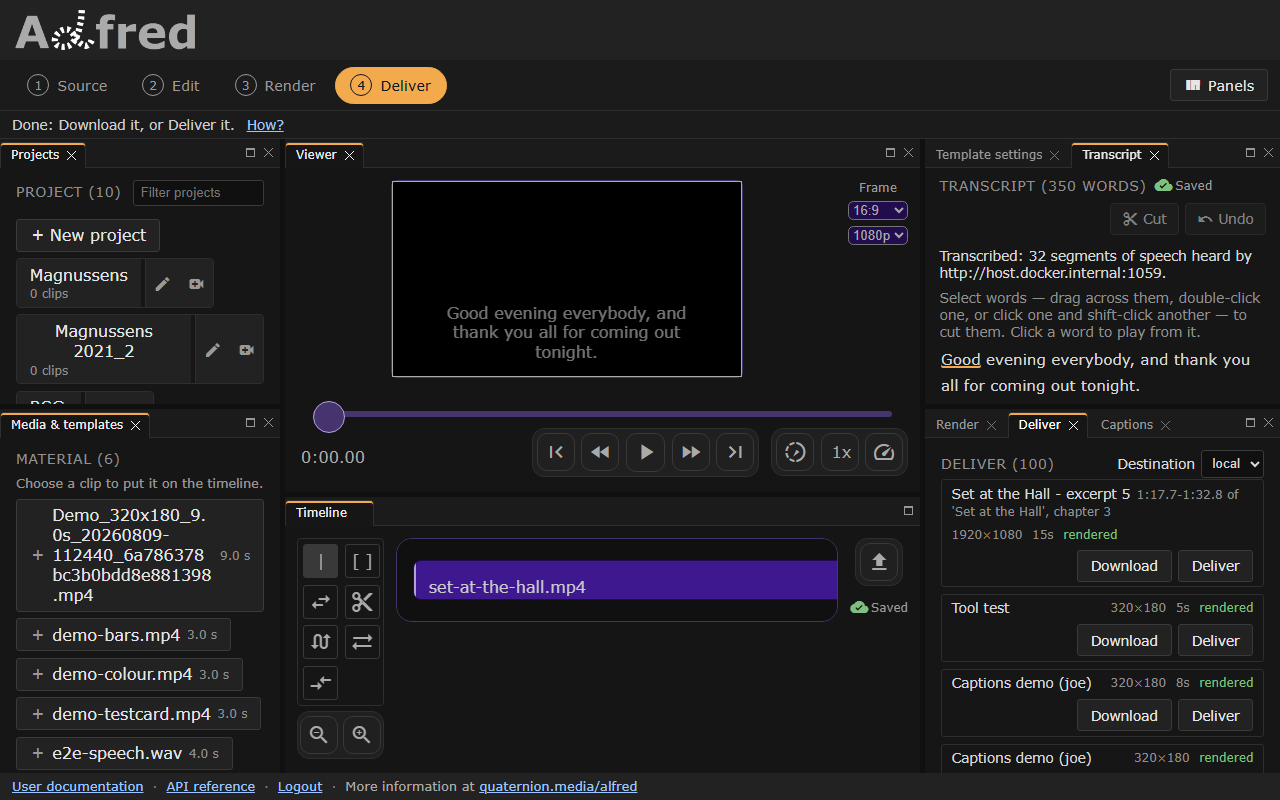
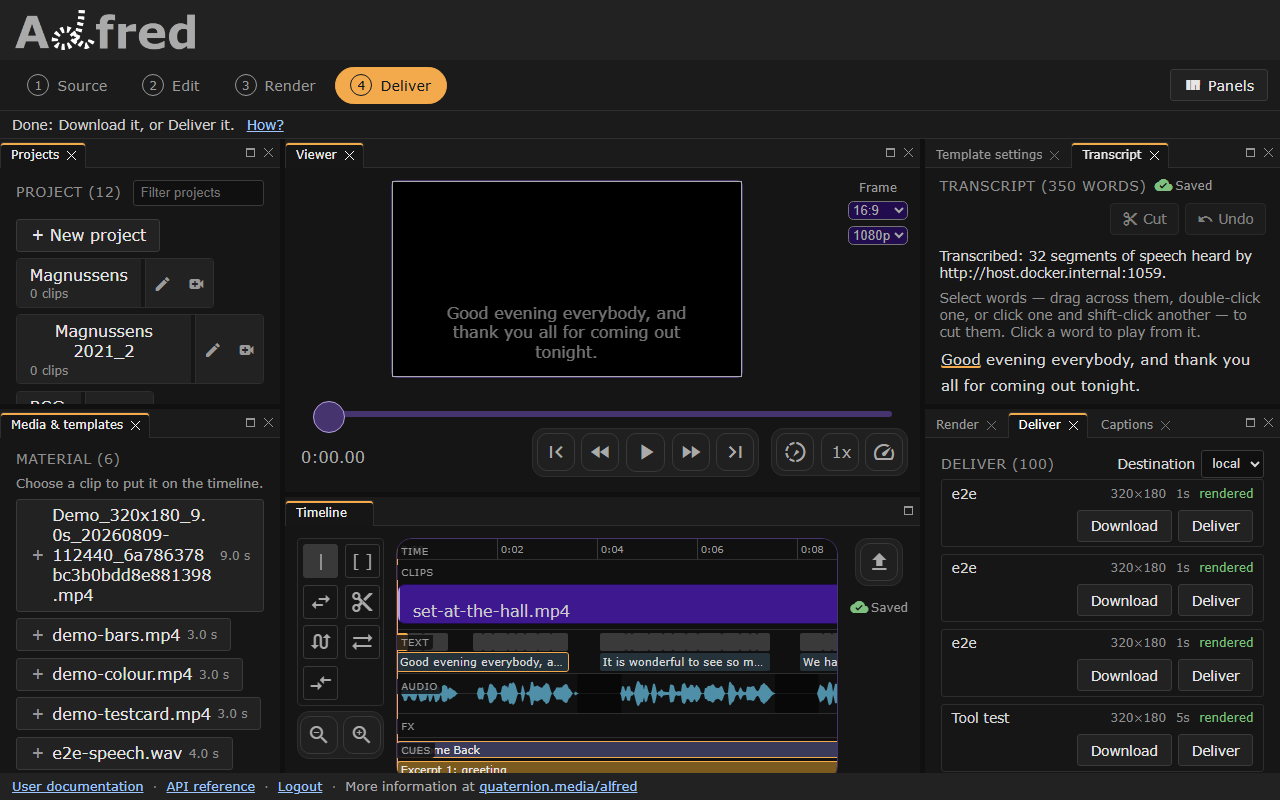
The journey's timeline is drawn as lanes, and the handoffs carry the cues, the branches and what the gates said

diff --git a/ci/journey_pictures.py b/ci/journey_pictures.py
@@ -102,8 +102,9 @@ def browser(out: Path, surfaces: set[str], generate: bool) -> None:
                     taken(page.screenshot(path=out / "prose-analyzed.png"),
                           out / "prose-analyzed.png")
         if "editor" in surfaces:
-            # The first project the account holds, at Edit with its transcript,
-            # then at Deliver with its renders: the journey by what is said.
+            # The first project the account holds, at Edit with its transcript
+            # and its lanes, then at Deliver with its renders: the journey by
+            # what is said.
             page.goto(f"{EDITOR}/")
             page.locator("button.projectchoice").first.wait_for(timeout=30_000)
             page.locator("button.projectchoice").first.click()
@@ -112,6 +113,15 @@ def browser(out: Path, surfaces: set[str], generate: bool) -> None:
             page.wait_for_timeout(1500)                  # the words load
             taken(page.screenshot(path=out / "editor-transcript.png"),
                   out / "editor-transcript.png")
+            # The timeline's lanes, with the cues the excerpt flow wrote: the
+            # panel maximised, so every lane is on the screen.
+            timeline = page.locator(".lm_stack", has=page.locator("#paneltab-timeline"))
+            timeline.locator(".lm_maximise").click()
+            page.locator(".lane.cues .cue").first.wait_for(timeout=30_000)
+            page.wait_for_timeout(1500)                  # the sound's envelope
+            taken(page.screenshot(path=out / "editor-lanes.png"),
+                  out / "editor-lanes.png")
+            timeline.locator(".lm_maximise").click()
             page.locator("button.stage", has_text="Deliver").click()
             page.locator("#panel-deliver").wait_for()
             page.wait_for_timeout(1500)                  # the renders list

diff --git a/handbook/handoffs/the-video-journey.md b/handbook/handoffs/the-video-journey.md
@@ -45,10 +45,11 @@ cannot reach its `main` until they merge (`qm-queue.md` §4).
 
 Branch `feat/alfred-excerpts` of `qmcp`, in the worktree
 `qmcp.worktrees/alfred-excerpts` beside the clone, cut from `main` at
-`8aece3e`. Five commits, `6e187a4` to `701e7c6`, signed and not pushed: the flow, the
+`8aece3e`. Six commits, `6e187a4` to `763414c`, signed and not pushed: the flow, the
 editor review's fixes (§4), a line length, the flow's output named an
-excerpt, and the onboarding naming the flow
-([`docs-review-editing-by-what-is-said.md`](docs-review-editing-by-what-is-said.md)).
+excerpt, the onboarding naming the flow
+([`docs-review-editing-by-what-is-said.md`](docs-review-editing-by-what-is-said.md)),
+and the flow marking the project's timeline with its cues (below).
 
 | Piece | Where | What it is |
 |---|---|---|
@@ -58,6 +59,26 @@ excerpt, and the onboarding naming the flow
 | the checks | `tests/test_alfred_excerpts.py`, `tests/test_alfred_tools.py`, `tests/alfred_stub.py` (`add_project` takes an `edl`), `tests/test_examples_smoke.py`, `tests/test_qmcp_mcp.py` | the proposal, the cut timeline and the labeller alone; the tools against the stand-in; the flow file's steps end to end through a qmcp server and its queue, each way a run can end, each guard naming its mutation |
 | the page | `walkthrough/12-a-long-recording-is-offered-as-excerpts.md` | runs under the ordinary test command |
 | the docs | `docs/integrations/alfred.md` (the flow, the tools), `docs/tools.md`, `docs/setup/flows.md`, `docs/testing.md`, `docs/ROADMAP.md` | |
+| the cues | `qmcp/tools/alfred.py` (`alfred_cues_set`), `qmcp/cookbook/alfred_excerpts.py` (`cues_of`, `mark`, the states), the flow's `_mark` | from `propose` on, the proposal is on the project's timeline as cues of the source `alfred-excerpts`: a cue per chapter and per span, each span's state following the run, so alfred's editor shows the run as it goes; an alfred without the route is printed and the run goes on |
+
+**Branch `feat/synced-timeline` of `alfred`**, in the clone itself, cut from
+`docs/excerpts-in-the-family` at `86a6708b` so that it lands above alfred's
+open stack and that branch, at `499abe8a`, three commits signed and not
+pushed. In the
+clone and not a worktree because the family stack serves the clone's
+checkout, and the lanes were built against it live. The timeline is lanes on
+one time axis, at one scale, in one box that scrolls sideways; alfred's
+`docs/lanes.md` is the reference.
+
+| Piece | Where | What it is |
+|---|---|---|
+| the lanes | `website/src/lanes/Lanes.js`, `lanes.scss` | the ruler, the clips (`#timeline`, unchanged, the tools' subject), the words and the captions, the sound's loudness, each clip's fades and opacity, and the cues, with one playhead down all of them; a press on a lane seeks, a word, a caption or a cue seeks to its start; the lanes draw what is in view, and the Text and Audio lanes redraw only when what they show changes |
+| the arithmetic | `website/src/lanes/arith.js` | the ruler's ticks for a zoom, the view, the clips laid end to end, the envelope sampled over a clip's window no finer than a pixel, the fades as `chosenFade` reads them (moved to `ClipWindow.js` so the render request and the lane share one rule), the cues' rows; imports nothing of the page |
+| the sound | `website/src/lanes/sound.js` | the engine's `peaks` and `silences` per library file from `GET /media/{name}/audio`, asked once per file while the page is open |
+| the cues | `website/src/cues/store.js`, `alfred/core/models/cues.py`, `alfred/core/routes/cues.py` | a project's cues, `GET` and `PUT /project/{id}/cues`, a writer's `source` replacing its own and keeping another's; read again every few seconds while any cue waits; the whole-project update keeps them, and `too_many_cues` is the refusal |
+| the loading | `website/src/OttoTimeline.js` | the captions, the words and the cues load once the session is confirmed, not only when the project opens: under the development bypass the session is confirmed after, and the words never loaded unless the Transcript panel was showing |
+| the checks | `website/e2e/lanes-arith.spec.js` (Node), `website/e2e/lanes.spec.js` (the running stack, the lanes' data served), `screens.spec.js` (the docs' picture), `tests/unit/test_cues_routes.py`, `tests/integration/test_cues_api.py`, the route inventory, the ownership list and the refusal codes | |
+| the docs | `docs/lanes.md` and its place in the nav, `docs/index.md`, `docs/guide.md`, `docs/api/index.md`, `docs/api/errors.md`, `docs/cookbook.md` (regenerated), `website/e2e/README.md`, `CHANGELOG.md` | |
 
 What a span is comes from the transcript alone: when the words were said and
 whether a caption ends a sentence. Nothing in the flow hears the sound, so a
@@ -149,8 +170,51 @@ where it waits for a person. Through the tools alone, excerpt 5 was rendered
 by alfred's worker at 1920 by 1080 with its 7 captions burned in and downloaded
 through its signed link, 15.1 s of video and sound.
 
+**The lanes and the cues**, at alfred `499abe8a` and qmcp `763414c`.
+alfred's Python suite in Docker, `./al pt`: formatting and lint green, and
+2059 tests passed, 9 skipped, 8 expected failures, 1 failed, the docs rule
+that a page named for a timeline is a project's history on qm's site; the
+page was renamed in the commit after, and that rule ran green on the host with
+the other docs rules, 34 passed. The host's environment is on pydantic 1 and
+cannot run the route tests, which is why the suite runs in Docker. The run at
+the commit before had the cookbook stale by the two new specs, regenerated
+with `node website/e2e/cookbook.js`, and four files unformatted, formatted
+with the suite's Black. In Node, the lanes' arithmetic spec: 14 passed, with
+the cut and follow specs 46. The browser gate, `npx playwright test` for the
+`chromium` and `phone` projects against the family stack: 453 passed, 45
+failed, of which 42 are the stack's, which runs with authentication skipped
+and a real joe where the suite expects its stub, and 3 the change's: an empty
+clip strip with no height, so a page with no project open called the timeline
+hidden; the lane labels centred; and a word's text drawn at the usual zoom
+into a box a few pixels wide. All three fixed, the editor's specs rerun: 216
+passed, 4 failed, two the skipped authentication and two drags across the
+Transcript panel's words. The same two drag tests with the website's sources
+set aside on the same stack: the desktop one fails there too, the phone one
+passes; the phone one was the lanes' height squeezing the panel into a
+scroller, bounded since, and the final rerun of the lanes, transcript, phone
+stack, appearance and flow specs: 90 passed, 1 failed, the desktop drag test
+the baseline fails. The docs' picture was taken by the screens spec on the
+running stack, and the journey's three by the shot script over alfred's own
+Playwright, the pinned one having no Chromium here.
+
+qmcp at `763414c`: `uv run pytest tests walkthrough -q` in the worktree, 1810
+passed, 12 skipped, 3 failed, the folder-name continuity tests above; ruff
+clean on the files the commit touches; `uv run qmcp preflight --event
+pull_request --base-ref main`: 13 of 15 steps pass, the two reds the
+signature step's `E` and the suite's three, as before.
+
+**The run marks the timeline.** The excerpt flow run again on the live
+project after the server was restarted with the tool: its proposal is on the
+project as cues of the source `alfred-excerpts`, read back from
+`GET /project/{id}/cues` as 12, five chapters titled by the local model and
+seven excerpts, the first `waiting` on the queue and the rest `proposed`, and
+drawn in the editor's Cues lane, which `docs/journeys/pictures/editor-lanes.png`
+shows. The run before it ended at its four-hour review timeout with its
+request still on the queue, where it stays, unanswered, beside the new one.
+
 **Not run.** An excerpt approved from its link and delivered to `local`,
-which waits on the queue's answers.
+which waits on the queue's answers; alfred's site built with mkdocs, whose
+nav and links the suite's docs rules check in its place.
 
 ## 3. What remains, and what done looks like
 
@@ -188,14 +252,37 @@ which waits on the queue's answers.
   several real recordings with the proposals kept, before any default moves,
   as `qmcp`'s `docs/voice-loop-next-phases.md` Phase 6 asks of the voice
   loop. The empty title for a one-sentence chapter belongs to the same pass.
+- **(g) The panels, split.** Asked for while the lanes were built: the
+  *Media & templates* panel split into a Media panel and a Templates panel,
+  with Media gaining ways to act on a file and to upload one from the person's
+  own machine; and the timeline tools split from the timeline into a panel of
+  their own, so the lanes take the Timeline panel's width. Each is a panel in
+  `website/src/layout/registry.js`, a place in the default layout and in the
+  phone flow, a row in the Panels menu, and the workspace, appearance and
+  phone specs that name every panel. The upload is a route alfred does not
+  have (`docs/captions.md` says media is put in `videos/`), so it is a
+  decision on where uploaded media lives before it is code. Done is one pull
+  request per split above `feat/synced-timeline`, with the upload's record
+  first.
+- **(h) The lanes, further.** A cue stays at its timeline seconds when an
+  edit moves the picture, so the flow's cues describe the timeline as it was
+  read; done is cues followed through `followClips` as the captions are,
+  with the undo carrying them, and the flow re-reading the timeline when an
+  excerpt is queued. The fades are read in the FX lane and not dragged; a
+  dragged fade meets `chosenFade`, which reads exactly one second as none.
+  The editor writes no cue of its own; a mark dropped at the playhead wants
+  the following first. The Audio lane draws each file, not the mix. A lane's
+  label covers the start of whatever sits at second 0 of that lane, a chapter's
+  first letters for one.
 - **(f) Landing, once keep-local is lifted.** Push `feat/alfred-excerpts`,
   open its pull request against `qmcp` `main` with the person who asked as
   assignee, run `uv run qmcp preflight --event pull_request --base-ref main`
   on the pushed branch, and merge it green; the recipe's description reaches
   `qmcp_mcp.py`'s list with it. This page's own pull request opens against
-  `qm` `main` from `evolve/the-video-journey`. alfred's `docs/guide.md`, on
-  its stack, counts qmcp's alfred tools as nine; with `alfred_project` they
-  are ten, and its table gets the row when that page is next touched.
+  `qm` `main` from `evolve/the-video-journey`. alfred's `feat/synced-timeline`
+  opens against `docs/excerpts-in-the-family`, a draft until that lands, and
+  retargets as the stack merges; alfred's suite runs in Docker, `./al pt`,
+  and the browser gate from `website/` against the running stack.
 
 ## 4. The editor, as the excerpt flow meets it
 
@@ -213,7 +300,7 @@ the rows that are the editor's wait on alfred's stack, under §3 (c).
 | 3 | opens Deliver to find the excerpts | renders newest first, the account's across every project, twelve rows shown; a run's excerpts arrive in reverse order, and a run of more than twelve pushes a project's other renders off the list | the flow's: excerpts are queued in span order, so the list reads last excerpt first. The editor's: no filter by project and no page past twelve (`VISIBLE_RENDERS`, `website/src/Stages.js`) |
 | 4 | reads an excerpt's row in Deliver | the name `<project> - excerpt <n>` and, small and grey beside it, a description naming the project by its twenty-four-digit id | fixed: the description names the project and the chapter, and the label when there is one |
 | 5 | wants to watch a rendered excerpt before approving it | the approval carries a signed download link; the editor's viewer shows the timeline and never a render, and Deliver offers Download alone | the editor's: a render is watched outside the editor, by downloading it, for every flow alike |
-| 6 | wants to refine a span the flow proposed, in the editor | the Transcript shows paragraphs, one per stretch the engine heard, and selects words; nothing shows a chapter, a span or a time range, and the request names times the panel cannot take | the editor's: §3 (c), as a selection rendered rather than a view drawn |
+| 6 | wants to refine a span the flow proposed, in the editor | the Transcript shows paragraphs, one per stretch the engine heard, and selects words; nothing shows a chapter, a span or a time range, and the request names times the panel cannot take | the timeline's Cues lane draws each chapter and each span where it falls, coloured by where it stands, and a press on one puts the playhead at its start; what remains is §3 (c), a selection rendered as an excerpt |
 | 7 | reads the word *clip* | the project card says `4 clips`, meaning items on the timeline, and otto's clip is the timeline's; a render named `clip 2` would mean an excerpt | fixed: the flow's output is an excerpt, in its names, its requests and its last line, and *clip* is the timeline's word in every repository |
 | 8 | approves a span with no render worker running | Deliver says why a queued render is not moving (`RendererNotice`); the flow ends that excerpt `no renderer` after `--queued-timeout` | holds: both say the same thing |
 | 9 | uses a phone | one stage at a time; Deliver's rows carry name, description, size, length and state in a narrow column | the editor's: a long description wraps; nothing hides it. Not seen on a screen |
@@ -226,8 +313,12 @@ named above.
 ## 5. Standing constraints
 
 - **Keep everything local**, until the person lifts it: this branch, `qmcp`
-  `feat/alfred-excerpts`, `alfred` `docs/excerpts-in-the-family` and `joe`
-  `docs/what-the-words-are-for`.
+  `feat/alfred-excerpts`, `alfred` `docs/excerpts-in-the-family` and
+  `feat/synced-timeline`, and `joe` `docs/what-the-words-are-for`.
+- **alfred's clone is checked out on `feat/synced-timeline`**, which the
+  family stack serves; `docs/excerpts-in-the-family` has its worktree beside
+  the clone. A session that wants the clone on the stack's top checks it out
+  with the stack down, or serves another checkout on another port.
 - **The family's joe needs `JOE_FFMPEG`** in the environment `./al family up`
   runs in, where ffmpeg is not on the `PATH`.
 - **Never bind a default port.** joe ran on `--port 0` and was asked its

diff --git a/perspectives/2026-11-19-the-video-journey.md b/perspectives/2026-11-19-the-video-journey.md
@@ -105,6 +105,58 @@ The local model answered every prompt within its timeout, in sixty-eight
 seconds for twelve, with no stall. One run says it can; it does not say it
 will.
 
+## The timeline became lanes, and what that decided
+
+The second ask of the session was the editor's timeline: synced text, audio,
+clips, effects and queues. The decisions, in the order they were forced:
+
+- **The clip strip stays the element it was.** Every tool and every browser
+  test has `#timeline .clip` as its subject; the lanes wrap it rather than
+  replace it, and a gesture on a clip is still the clip's.
+- **One scale, one scroll box, one edge.** Every lane puts a second at
+  `seconds x scale` pixels from the same left edge, and that is the whole of
+  the synchronisation. A padding would have broken it, so there is none; the
+  labels inherited centred text and sat in the middle of each lane, which the
+  docs' own picture showed before a reader would have.
+- **"Queues" was read as cues.** A lane of marked moments and stretches with
+  a state, fed by the harness's queue through a route of alfred's own, so
+  that alfred reads nothing from qmcp and the seam keeps its direction. The
+  flow writes its proposal as cues of its own source, replacing its own and
+  leaving another writer's, which is what lets the editor show a run as it
+  goes without a second channel.
+- **The sound is what already exists.** alfred served the engine's analysis
+  of a library file before this slice; the Audio lane asks it once per file
+  and draws each clip's window of it. The mix is otto's at render time, and
+  the lane says so rather than drawing a guess.
+- **Fades are read, not dragged.** The render request reads a fade of
+  exactly one second as none, because older projects carry one nobody chose;
+  a dragged fade would meet that rule at one second and vanish. Showing what
+  renders was the honest half; the drag waits on the rule.
+- **A cue does not follow an edit.** The captions and words follow the
+  picture through one function; the cues could ride it, and the undo would
+  have to carry them. That is a slice, not a corner, and the handoff names it
+  rather than leaving it half-done.
+- **Built in the clone, against the live stack.** The habit is a worktree per
+  slice; the family stack serves the clone's checkout, and a lane is judged
+  by looking at it, so the branch was cut in the clone and the handoff says
+  where the clone now sits.
+
+**What the gate said.** The browser gate against the family stack reported
+forty-five reds. Most were the stack's: it runs with authentication skipped,
+and every test that expects a refusal fails there, as do the ones that
+expect the stub engine's words from a real joe. Three were the change's, each
+found by a picture or a test and not by reading: an empty strip with no
+height, so a page with no project open called the timeline hidden; the
+centred labels; and a word's text drawn at the usual zoom into a box a few
+pixels wide, which read as noise. A reader of the diff would have passed all
+three.
+
+**What was asked next.** While the lanes were built, two more asks arrived:
+the Media & templates panel split, with Media gaining ways to act on a file
+and to upload one, and the timeline tools split from the timeline. Both are
+panel splits in the same registry; neither was started here, so that this
+slice closed as one thing.
+
 ## The journey is longer than the slice
 
 Nothing here has been rendered by alfred's worker: Docker Desktop was down,

diff --git a/handbook/handoffs/docs-review-editing-by-what-is-said.md b/handbook/handoffs/docs-review-editing-by-what-is-said.md
@@ -48,12 +48,13 @@ branches, *proposed* is a sentence in §3 for its owner.
 | `alfred` `docs/guide.md` | the whole family walked for one short video; *Let an assistant drive it* lists nine tools and no flow | fixed: the tenth tool and the excerpt flow, on alfred's local branch (§2) |
 | `alfred` `docs/journeys.md` | *With an assistant*: list projects, transcribe and correct captions, render and deliver | fixed: one clause, on alfred's local branch (§2) |
 | `alfred` `docs/editing-by-text.md` | the rules of a cut, the words following the picture, undo and saving | holds; its complement, a selection kept rather than cut, is `the-video-journey.md` §3 (c) |
+| `alfred` `docs/lanes.md` | the timeline as lanes: what each shows and where it comes from, the cues through the API, and what the lanes do not do | written, on alfred's `feat/synced-timeline` (§2), with its place in the nav and a sentence each in `docs/index.md` and `docs/guide.md` |
 | `alfred` `docs/captions.md` | transcribing, editing by text, and the audio engine asked two things: a transcript, and an analysis of a library file | holds; `the-video-journey.md` §3 (b) names that route as the way the sound reaches the proposal |
 | `joe` `README.md` | the audio engine of a video editor: what alfred uploads and what joe answers | fixed: what the words are for, on joe's local branch (§2) |
 | `joe` `docs/paths/server.md` §2 | caption and analyse a video for an editor: words for captions, and beats, loudness and silences for cutting | fixed: one clause, on joe's local branch (§2) |
 | `joe` `docs/media.md` | the audio engine of a video pipeline, every route | holds |
 | `vox` `README.md` | the seam, naming no product by design; alfred's captions page links its media client | holds |
-| `otto` `docs/timeline.md` | the in-point and the out-point, which is how an excerpt is cut | holds; otto's index names no editor, as an engine's should not |
+| `otto` `docs/lanes.md` | the in-point and the out-point, which is how an excerpt is cut | holds; otto's index names no editor, as an engine's should not |
 
 ## 2. What was fixed, and where
 
@@ -75,6 +76,13 @@ alfred's open stack (`docs/changes-by-family` at `9bf5209`) in the worktree
 family table's qmcp row in `docs/index.md`, the tenth tool and the excerpt
 flow in `docs/guide.md`, and the *With an assistant* journey. It lands as one
 pull request above the stack, a draft until the stack merges.
+
+On `alfred` `feat/synced-timeline`, in the clone, cut from
+`docs/excerpts-in-the-family`: `docs/lanes.md`, the reference for the
+lanes the branch adds, its place in the nav, the Edit stage's line in
+`docs/index.md`, a sentence in the guide's step 4, the cues route in
+`docs/api/index.md` and its refusal in `docs/api/errors.md`, and the
+changelog; [`the-video-journey.md`](the-video-journey.md) §1 has the branch.
 
 On `joe` `docs/what-the-words-are-for`, at `a7c214c`, cut from joe's `main` in
 the worktree `joe.worktrees/docs-what-the-words-are-for`: the README's

diff --git a/handbook/handoffs/qm-queue.md b/handbook/handoffs/qm-queue.md
@@ -174,6 +174,15 @@ pick up alone; that page is then listed in the index and named here.
     qmcp's already. A joe route and an alfred panel were the alternatives;
     the panel would stack above alfred's open pull requests.
     [`the-video-journey.md`](the-video-journey.md) is the handoff. (2026-11-19)
+24. **The editor shows the harness's proposal through a route of alfred's
+    own, and reads nothing from qmcp.** A project carries cues, moments and
+    stretches of its timeline with a label and a state, which the editor
+    draws in a lane under the clips and the excerpt flow writes as its
+    proposal and where each span stands; a writer replaces its own cues and
+    leaves another's. The seam keeps its direction: qmcp drives alfred, and
+    alfred holds what it is told. `alfred`'s `docs/lanes.md` is the
+    reference; [`the-video-journey.md`](the-video-journey.md) §1 names the
+    branch. (2026-11-19)
 
 ## 2. `qm`'s open pull requests, and what clears each
 
@@ -610,10 +619,12 @@ re-checked and is re-derived before anyone acts on it.
 - **The excerpt flow against a live alfred.** `qmcp`'s `feat/alfred-excerpts`
   carries the `alfred-excerpts` recipe, its tools, tests and walkthrough, run
   against a live alfred to its first question on the queue, with one excerpt
-  rendered by alfred's worker. Done is a person's answers on that queue, then
-  [`the-video-journey.md`](the-video-journey.md) §3 (b) to (e) each as a
-  record or a pull request of its own, and (f) once *keep everything local* is
-  lifted. (2026-11-19)
+  rendered by alfred's worker and the proposal drawn on the editor's timeline
+  as cues, in the lanes `alfred`'s `feat/synced-timeline` adds. Done is a
+  person's answers on that queue, then
+  [`the-video-journey.md`](the-video-journey.md) §3 (b) to (e), (g) and (h)
+  each as a record or a pull request of its own, and (f) once *keep
+  everything local* is lifted. (2026-11-19)
 
 ## 5. Not verified
 
@@ -651,9 +662,10 @@ re-checked and is re-derived before anyone acts on it.
 ## 6. Standing constraints
 
 - *Keep everything local* is **not** in force for this page's work, and is
-  **in force** for the video journey's four branches, `qmcp`
+  **in force** for the video journey's five branches, `qmcp`
   `feat/alfred-excerpts`, `qm` `evolve/the-video-journey`, `alfred`
-  `docs/excerpts-in-the-family` and `joe` `docs/what-the-words-are-for`, until
+  `docs/excerpts-in-the-family` and `feat/synced-timeline`, and `joe`
+  `docs/what-the-words-are-for`, until
   the person lifts it; [`the-video-journey.md`](the-video-journey.md) §3 (f)
   lands them. (2026-11-19)
 - Nothing of this page's work is unpushed.

diff --git a/docs/journeys/cut-a-recording-by-what-is-said.md b/docs/journeys/cut-a-recording-by-what-is-said.md
@@ -55,9 +55,11 @@ On **Edit**, open the **Transcript** tab and press **Transcribe timeline**. alfr
 
 Select words in the transcript and press **Delete**: the stretch they were said in is cut from the timeline, picture and sound alike, and the captions move with it. This is the editor's own way to edit by what is said, and alfred's docs have its rules. The **Captions** tab corrects a misheard word and chooses how captions are drawn.
 
+The timeline itself shows the same seconds in lanes under the clips: the words and the captions where they are said and shown, the loudness of the sound as the audio engine measured it, each clip's fades, and the cues. A press on any lane puts the playhead there, and a word takes it to its start, so a cut can be placed by what is heard as well as by what is read.
+
 ## 5. Offer the stretches that stand alone
 
-The harness reads the transcript the editor holds, cuts it into chapters at the long pauses and into spans at pauses and sentence ends, and asks you about each span. In qmcp's checkout, with Docker running:
+The harness reads the transcript the editor holds, cuts it into chapters at the long pauses and into spans at pauses and sentence ends, draws them on the editor's timeline, and asks you about each span. In qmcp's checkout, with Docker running:
 
 ```sh
 QMCP_ALFRED_URL=http://127.0.0.1:1732 uv run qmcp cookbook serve
@@ -71,6 +73,16 @@ uv run qmcp human respond <request id> approve
 ```
 
 or by voice through joe's Voice window, which speaks a shorter form of each. Approve the spans worth keeping and reject the rest. With `--label-with local` and `--categories`, the local model titles each chapter and sorts each span into one of your categories first.
+
+<figure class="qm-shot" markdown>
+
+![The editor's timeline with the chapters and excerpts the harness proposed drawn in the Cues lane under the clips, the words and the sound, one excerpt waiting on the queue](pictures/editor-lanes.png)
+
+<figcaption><strong>The proposal on the timeline.</strong> The Cues lane draws each chapter and each excerpt where it falls, coloured by where it stands on the queue; the lanes above it are the words and the sound at the same seconds.</figcaption>
+
+</figure>
+
+The editor's **Cues** lane shows the proposal as the flow goes: each chapter, titled when the model titled it, and each excerpt coloured by where it stands, waiting, approved, rejected, rendered or delivered. It reads the cues again every few seconds while any waits, so an answer given in the terminal shows in the editor.
 
 ## 6. Review each excerpt
 
